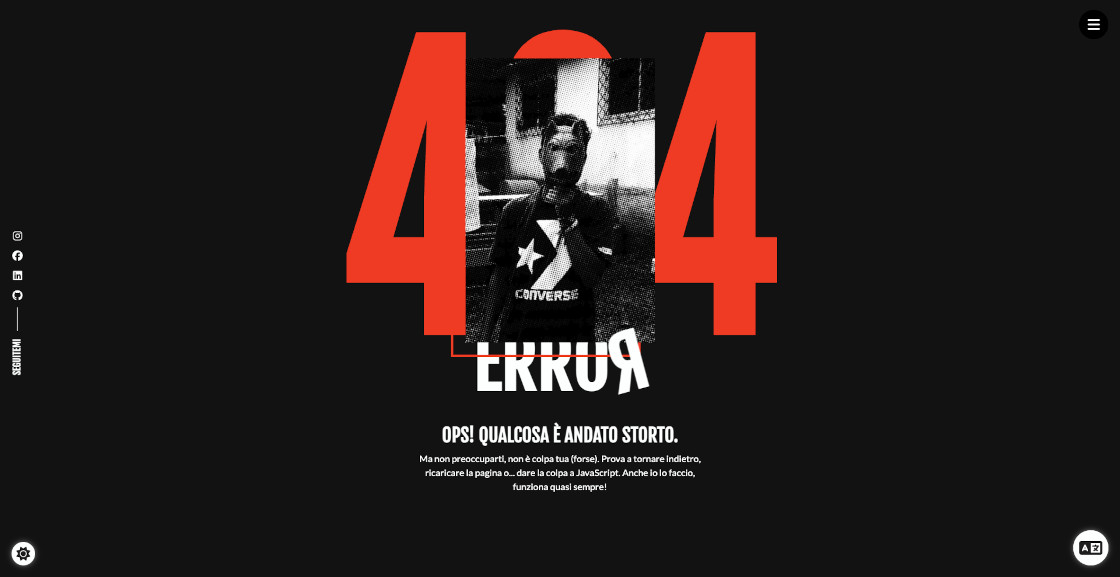
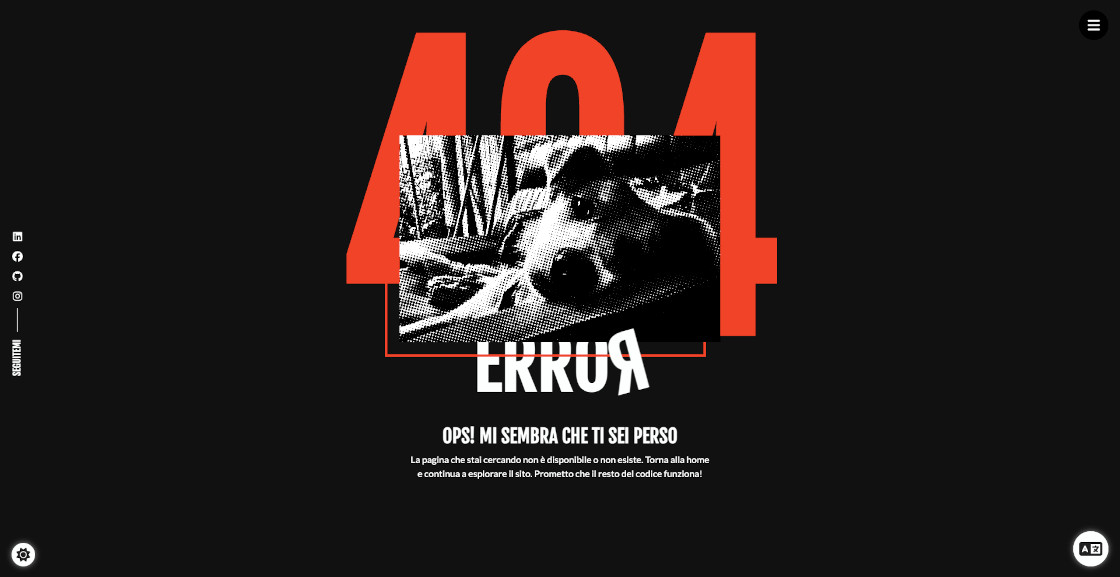
[fix]: Update README with images and info. Also update home style with animations for the home

diff --git a/src/styles/mixins.scss b/src/styles/mixins.scss
@@ -218,9 +218,12 @@ $default_container-padding-right: 15px;
     font-size: $ts-xs;
     padding-top: 15%;
     color: var(--text-subtitle);
+    z-index: 2; // Above h1, below image
     span {
       transform: rotate(-15deg) scale(-1, 1);
       display: inline-block;
+      position: relative;
+      z-index: 4; // Top of everything — above the image
     }
   }
   a {
@@ -231,6 +234,13 @@ $default_container-padding-right: 15px;
   }
   .title-home-style-image {
     @include mainImageWithBorder;
+    position: absolute;
+    margin: 0 auto;
+    max-width: 200px;
+    right: 0;
+    top: -15%;
+    left: 0;
+    z-index: 3; // Above h2 but below span
     &.wide-img {
       max-width: 250px;
       top: 30%;
@@ -240,20 +250,16 @@ $default_container-padding-right: 15px;
     }
 
     .image-container {
+      position: relative;
+      z-index: 3;
       &.bnw-bg {
         filter: grayscale(1) brightness(2.2) contrast(1.3);
       }
       img {
-        z-index: 0;
+        z-index: 3;
         position: relative;
       }
     }
-    position: absolute;
-    margin: 0 auto;
-    max-width: 200px;
-    right: 0;
-    top: -15%;
-    left: 0;
   }
 
   .title-home-style-custom-description {
@@ -326,4 +332,134 @@ $default_container-padding-right: 15px;
   }
 }
 
+//ANIMATIONS
+@mixin home-title-animation {
+  .home-animated {
+    .main-title-text {
+      h1 {
+        animation:
+          scaleIn 0.8s ease-out forwards,
+          shakeWithExtraTransform 0.4s ease-in 0.8s;
+        opacity: 0;
+        transform: scale(1.2, 2.7);
+        @include home-shake-animation(scale(1.2, 2.7));
+      }
+
+      h2 {
+        animation:
+          slideUpFadeIn 0.6s ease-out forwards 1.2s,
+          // starts after h1 (0.8 + 0.4)
+          shake 0.4s ease-in-out 1.8s;
+        opacity: 0;
+        transform: translateY(50px);
+      }
+    }
+    .title-home-style-custom-description {
+      animation:
+        slideUpFadeIn 0.6s ease-out forwards 3.2s,
+        shake 0.4s ease-in-out 3.8s;
+      opacity: 0;
+    }
+
+    .title-home-style-image {
+      animation:
+        slideDownFadeIn 0.6s ease-out forwards 2.2s,
+        // starts after h1 + h2
+        shake 0.4s ease-in-out 2.8s;
+      opacity: 0;
+      transform: translateY(-50px);
+      // .image-container {
+      // }
+    }
+
+    @include mobile {
+      h1 {
+        transform: scale(1.2, 2);
+        @include home-shake-animation(scale(1.2, 2));
+      }
+    }
+
+    @include tablet {
+      h1 {
+        transform: scale(1.2, 1.5);
+        @include home-shake-animation(scale(1.2, 1.5));
+      }
+    }
+  }
+  @include home-slide-normal_shake-animations;
+}
+
+@mixin home-slide-normal_shake-animations {
+  @keyframes slideUpFadeIn {
+    0% {
+      transform: translateY(50px);
+      opacity: 0;
+    }
+    100% {
+      transform: translateY(0);
+      opacity: 1;
+    }
+  }
+
+  @keyframes slideDownFadeIn {
+    0% {
+      transform: translateY(-50px);
+      opacity: 0;
+    }
+    100% {
+      transform: translateY(0);
+      opacity: 1;
+    }
+  }
+
+  @keyframes shake {
+    0%,
+    100% {
+      transform: translateX(0);
+    }
+    20% {
+      transform: translateX(-3px);
+    }
+    40% {
+      transform: translateX(3px);
+    }
+    60% {
+      transform: translateX(-2px);
+    }
+    80% {
+      transform: translateX(2px);
+    }
+  }
+}
+@mixin home-shake-animation($extra_transform) {
+  @keyframes scaleIn {
+    0% {
+      transform: scale(0, 0);
+      opacity: 0;
+    }
+    100% {
+      transform: $extra_transform;
+      opacity: 1;
+    }
+  }
+
+  @keyframes shakeWithExtraTransform {
+    0%,
+    100% {
+      transform: translateX(0) $extra_transform;
+    }
+    20% {
+      transform: translateX(-3px) $extra_transform;
+    }
+    40% {
+      transform: translateX(3px) $extra_transform;
+    }
+    60% {
+      transform: translateX(-2px) $extra_transform;
+    }
+    80% {
+      transform: translateX(2px) $extra_transform;
+    }
+  }
+}
 /*=====  End of HOME AND ERROR IMAGE TITLE  ======*/

diff --git a/README.md b/README.md
@@ -20,6 +20,10 @@ For the useApiHook I took the idea from here:
 
 - [Creating a custom Hook to make requests using React + Axios + TypeScript](https://danilorivera95.medium.com/creating-a-custom-hook-to-make-requests-using-react-axios-typescript-ca591c6c25fc)
 
+For the loading page I used:
+
+- [Glowing Loader Ring Animation](https://codepen.io/Curlmuhi/pen/ExKWXKO)
+
 To upload a JSON file directly to firebase you can use the function `initializeProfileData` that you can find on the file `src/services/fillFirebaseFromJSON.ts` that will take the info from `data_content.ts` under the same folder.
 
 There is a button on the left bottom corner to change th theme
